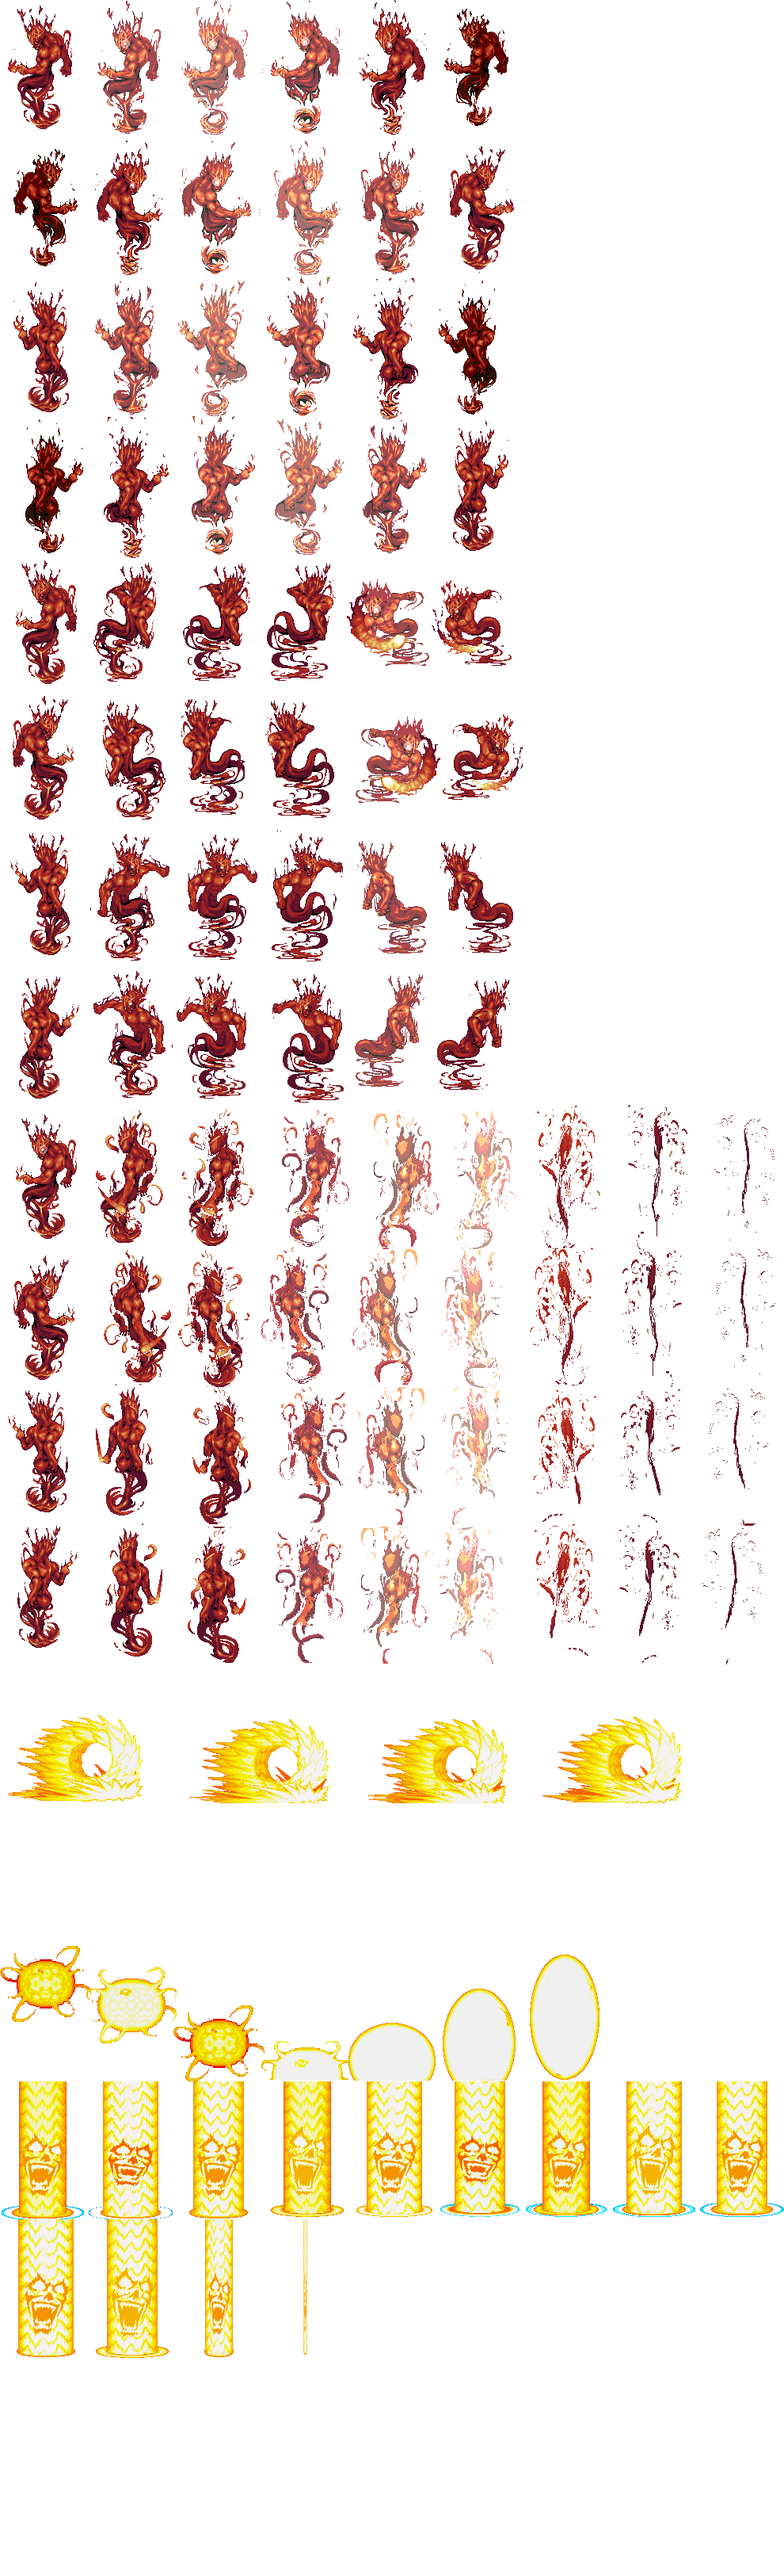
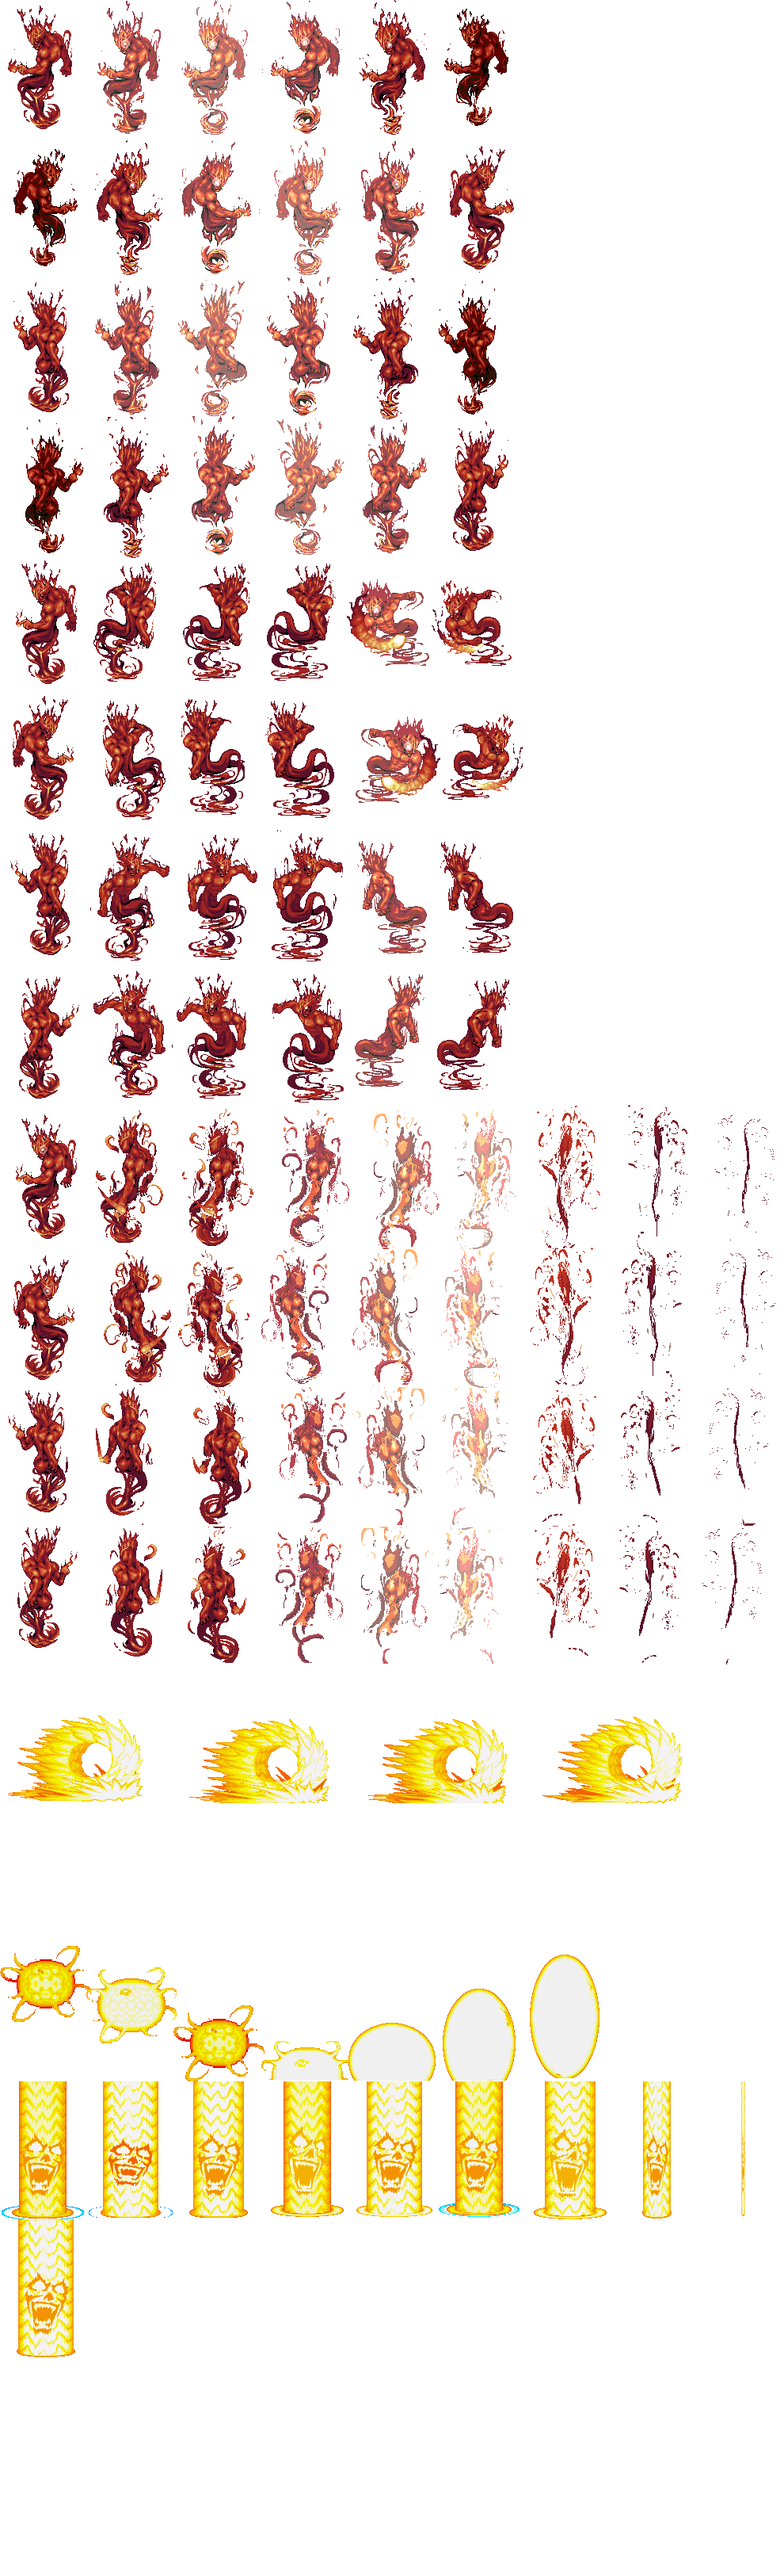
Merging mmerging!

diff --git a/cBoss.cpp b/cBoss.cpp
@@ -38,13 +38,12 @@ void cBoss::GetRectPilar(RECT *rc, float *posx, float *posy, cScene *Scene)
 	float offX = ix - sprite_height;
 	float offY = iy - sprite_height;
 
-	*posx = ISO_OFFSET_X + ((float)(offX - Scene->cx*TILE_SIZE_X) - (offY - Scene->cy*TILE_SIZE_X)) / 2;
-	*posy = ((float)(offX - Scene->cx*TILE_SIZE_Y) + (offY - Scene->cy*TILE_SIZE_Y)) / 2;
-	if (seqpilar<=6)
-	SetRect(rc, 110 * seqpilar, 880, 110 * (seqpilar + 1), 990);
-	else(rc, 110 * (seqpilar - 7), 990, 110 * (seqpilar - 6), 1100);
+	*posx = ISO_OFFSET_X + ((float)(offX - cx*TILE_SIZE_X) - (offY - cy*TILE_SIZE_X)) / 2;
+	*posy = ((float)(offX - cx*TILE_SIZE_Y) + (offY - cy*TILE_SIZE_Y)) / 2;
+	if (seqpilar<=6)SetRect(rc, 110 * seqpilar, 2450, 110 * (seqpilar + 1), 2625);
+	else SetRect(rc, 110 * (seqpilar - 7), 2625, 110 * (seqpilar - 6), 2800);
 }
-void cBoss::GetCell(int *cellx,int *celly)
+void cBoss::GetCell(int *cellx,int *celly)	
 {
 	*cellx = cx;
 	*celly = cy;
@@ -71,7 +70,7 @@ void cBoss::updateAttackSeq(cCritter Player)
 {
 	if (seqpilar == 0) Player.GetCell(&cxpilar, &cypilar);
 	delay2++;
-	if (delay2 == 4)
+	if (delay2 == 100)
 	{
 		seqpilar++;
 		if (seqpilar == 16)
@@ -86,7 +85,7 @@ void cBoss::updateAttackSeq(cCritter Player)
 void cBoss::updateBoss()
 {
 	delay++;
-	if (delay == 4)
+	if (delay == 100)
 	{
 		seq++;
 		if (seq == 6)

diff --git a/cGraphicsLayer.cpp b/cGraphicsLayer.cpp
@@ -562,8 +562,6 @@ bool cGraphicsLayer::DrawUnits(cScene *Scene,cCritter *Critter,cSkeleton *Skelet
 		g_pSprite->Draw(texSkills, &rc, NULL,
 			&D3DXVECTOR3(300, 200, 0.0f),
 			0xFFFFFFFF);
-	//	g_pSprite->Draw(texBoss, &rc, NULL, &D3DXVECTOR3(400, 300, 0.0f),
-	//		0xFFFFFFFF);
 	}
 	//Draw Fire
 	if(Critter->GetShooting())
@@ -587,8 +585,8 @@ bool cGraphicsLayer::DrawBoss(cScene *Scene, cBoss *Boss)
 						&D3DXVECTOR3(ix,iy,0.0f), 
 						0xFFFFFFFF);
 		Boss->GetRectPilar(&rc, &ix, &iy, Scene);
-		g_pSprite->Draw(texBoss, &rc, NULL,
-			&D3DXVECTOR3(ix, iy, 0.0f),
+		 g_pSprite->Draw(texBoss, &rc, NULL,
+			&D3DXVECTOR3(ix-175, iy+300, 0.0f),
 			0xFFFFFFFF);
 	}
 

diff --git a/cGame.cpp b/cGame.cpp
@@ -438,6 +438,10 @@ void cGame::ProcessAttacks()
 				}
 			}
 		}
+		if (Boss.isActive()){
+			Boss.updateAttackSeq(Critter);
+			Boss.updateBoss();
+		}
 	}
 }
 
